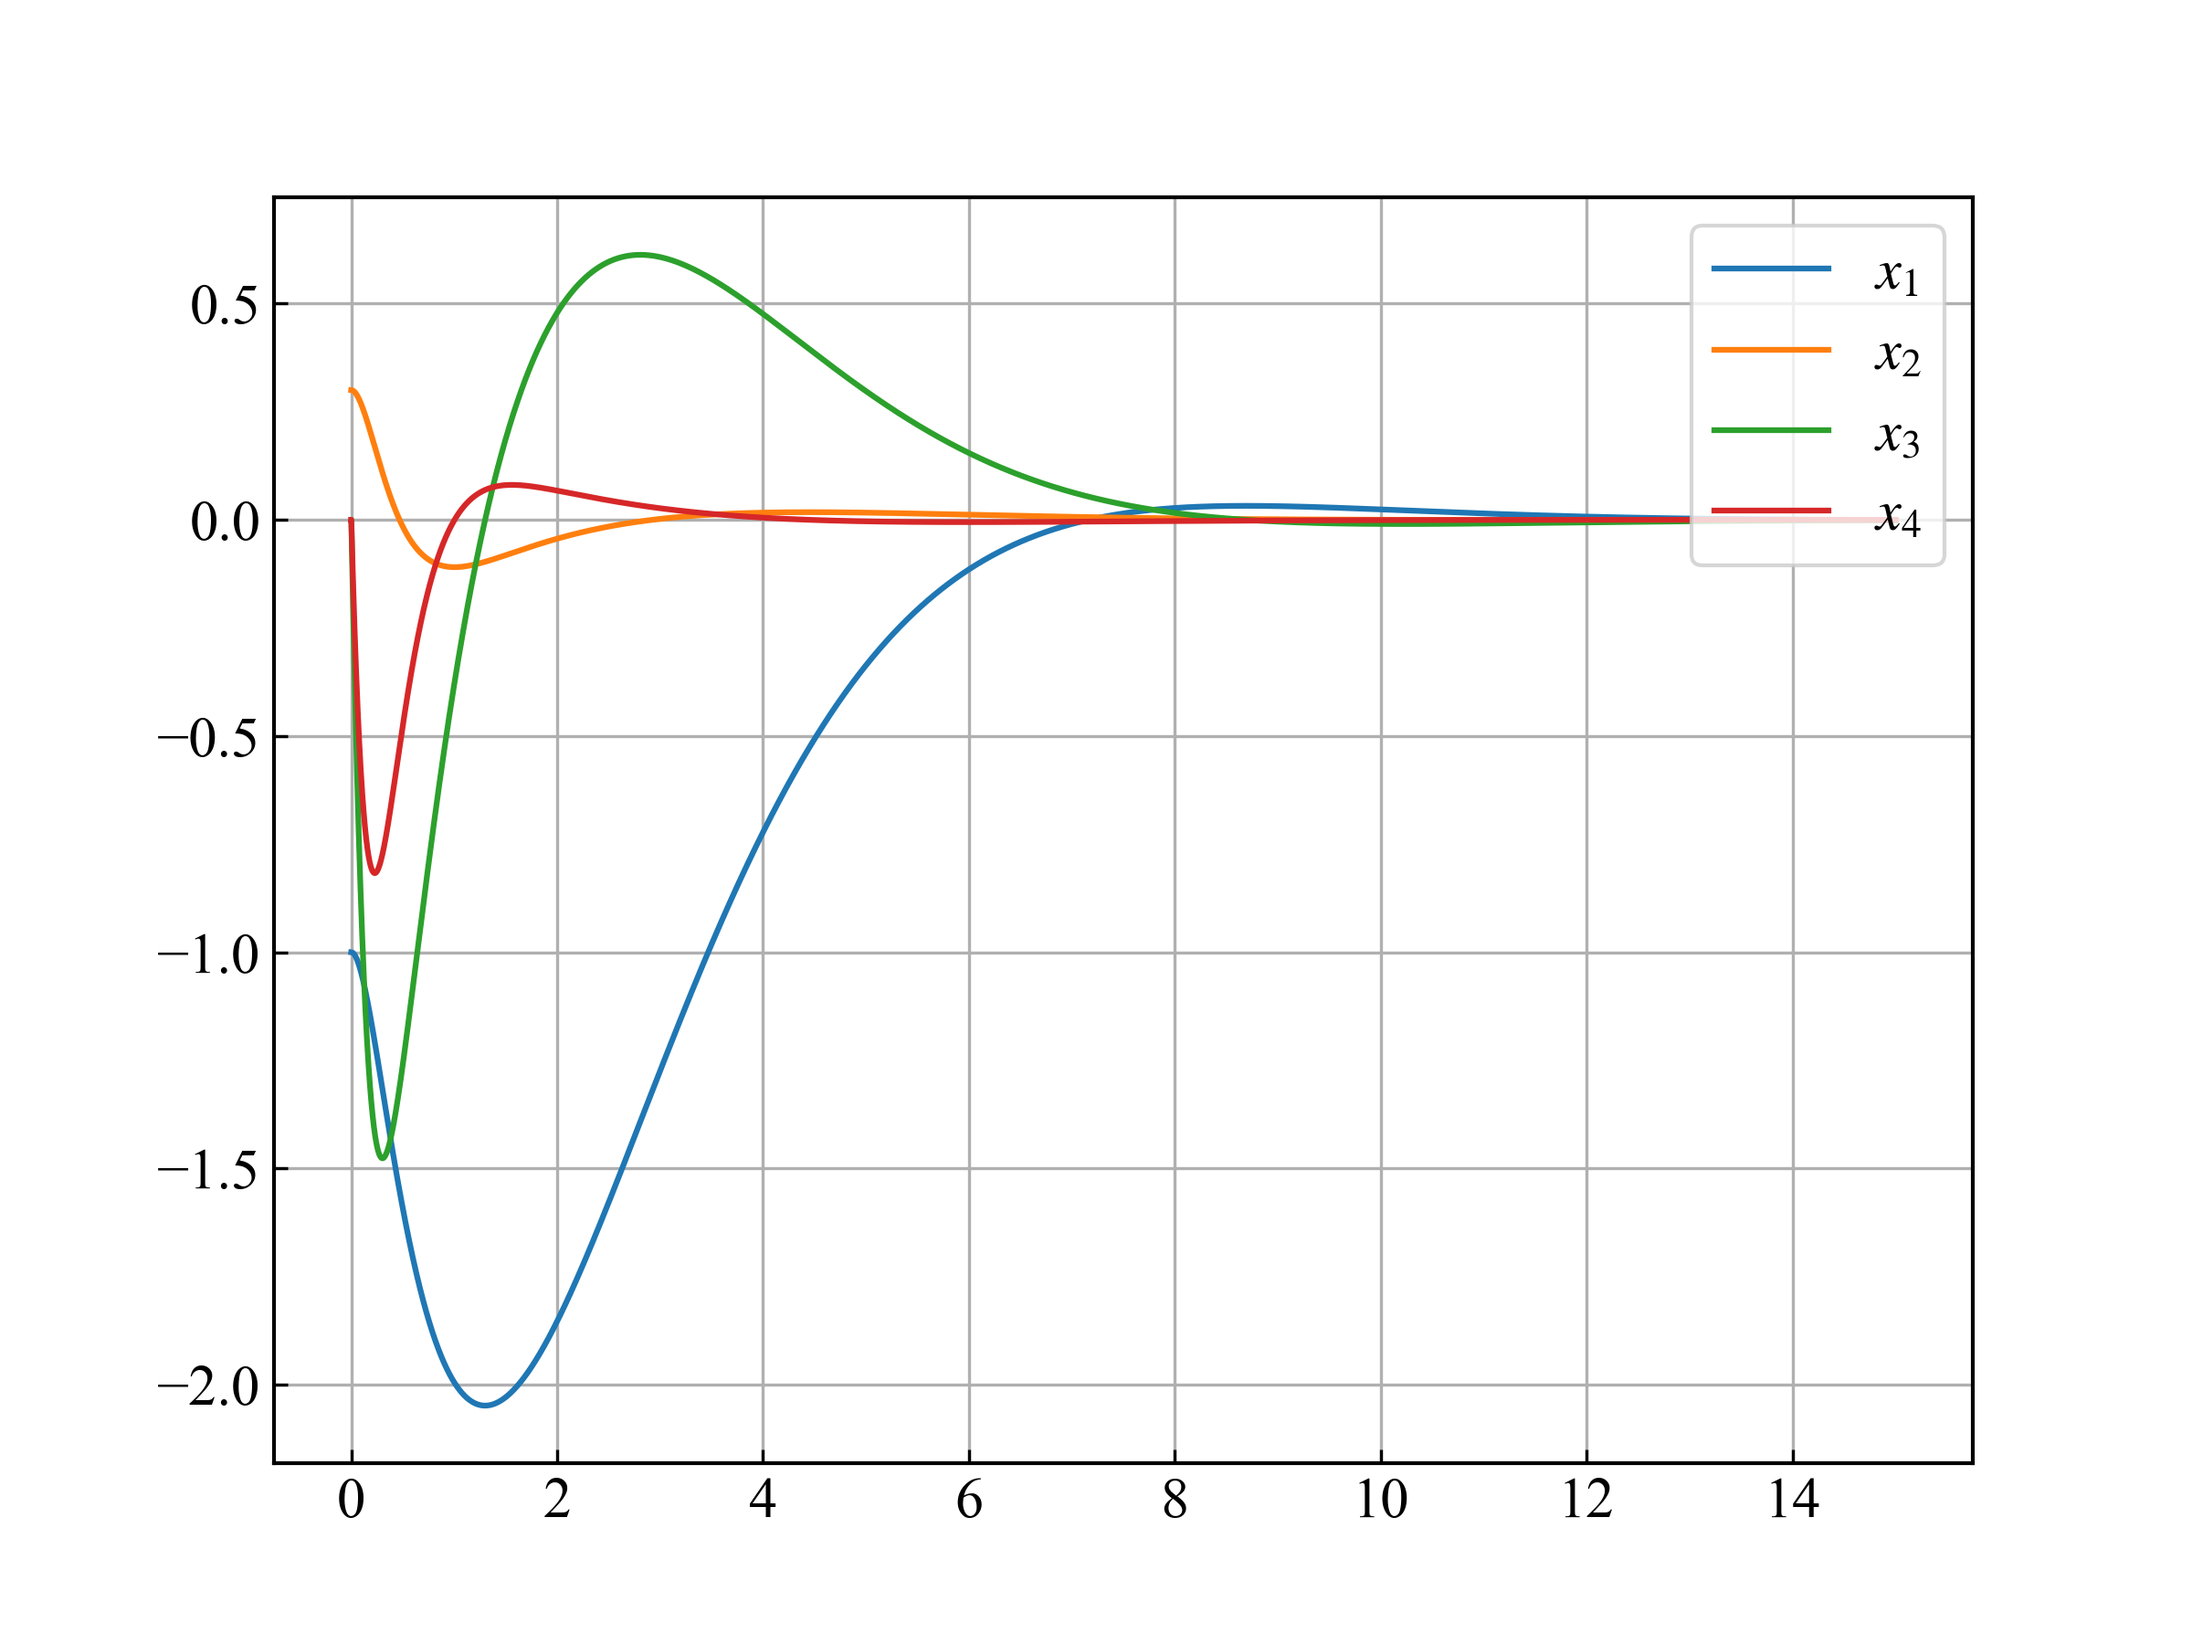
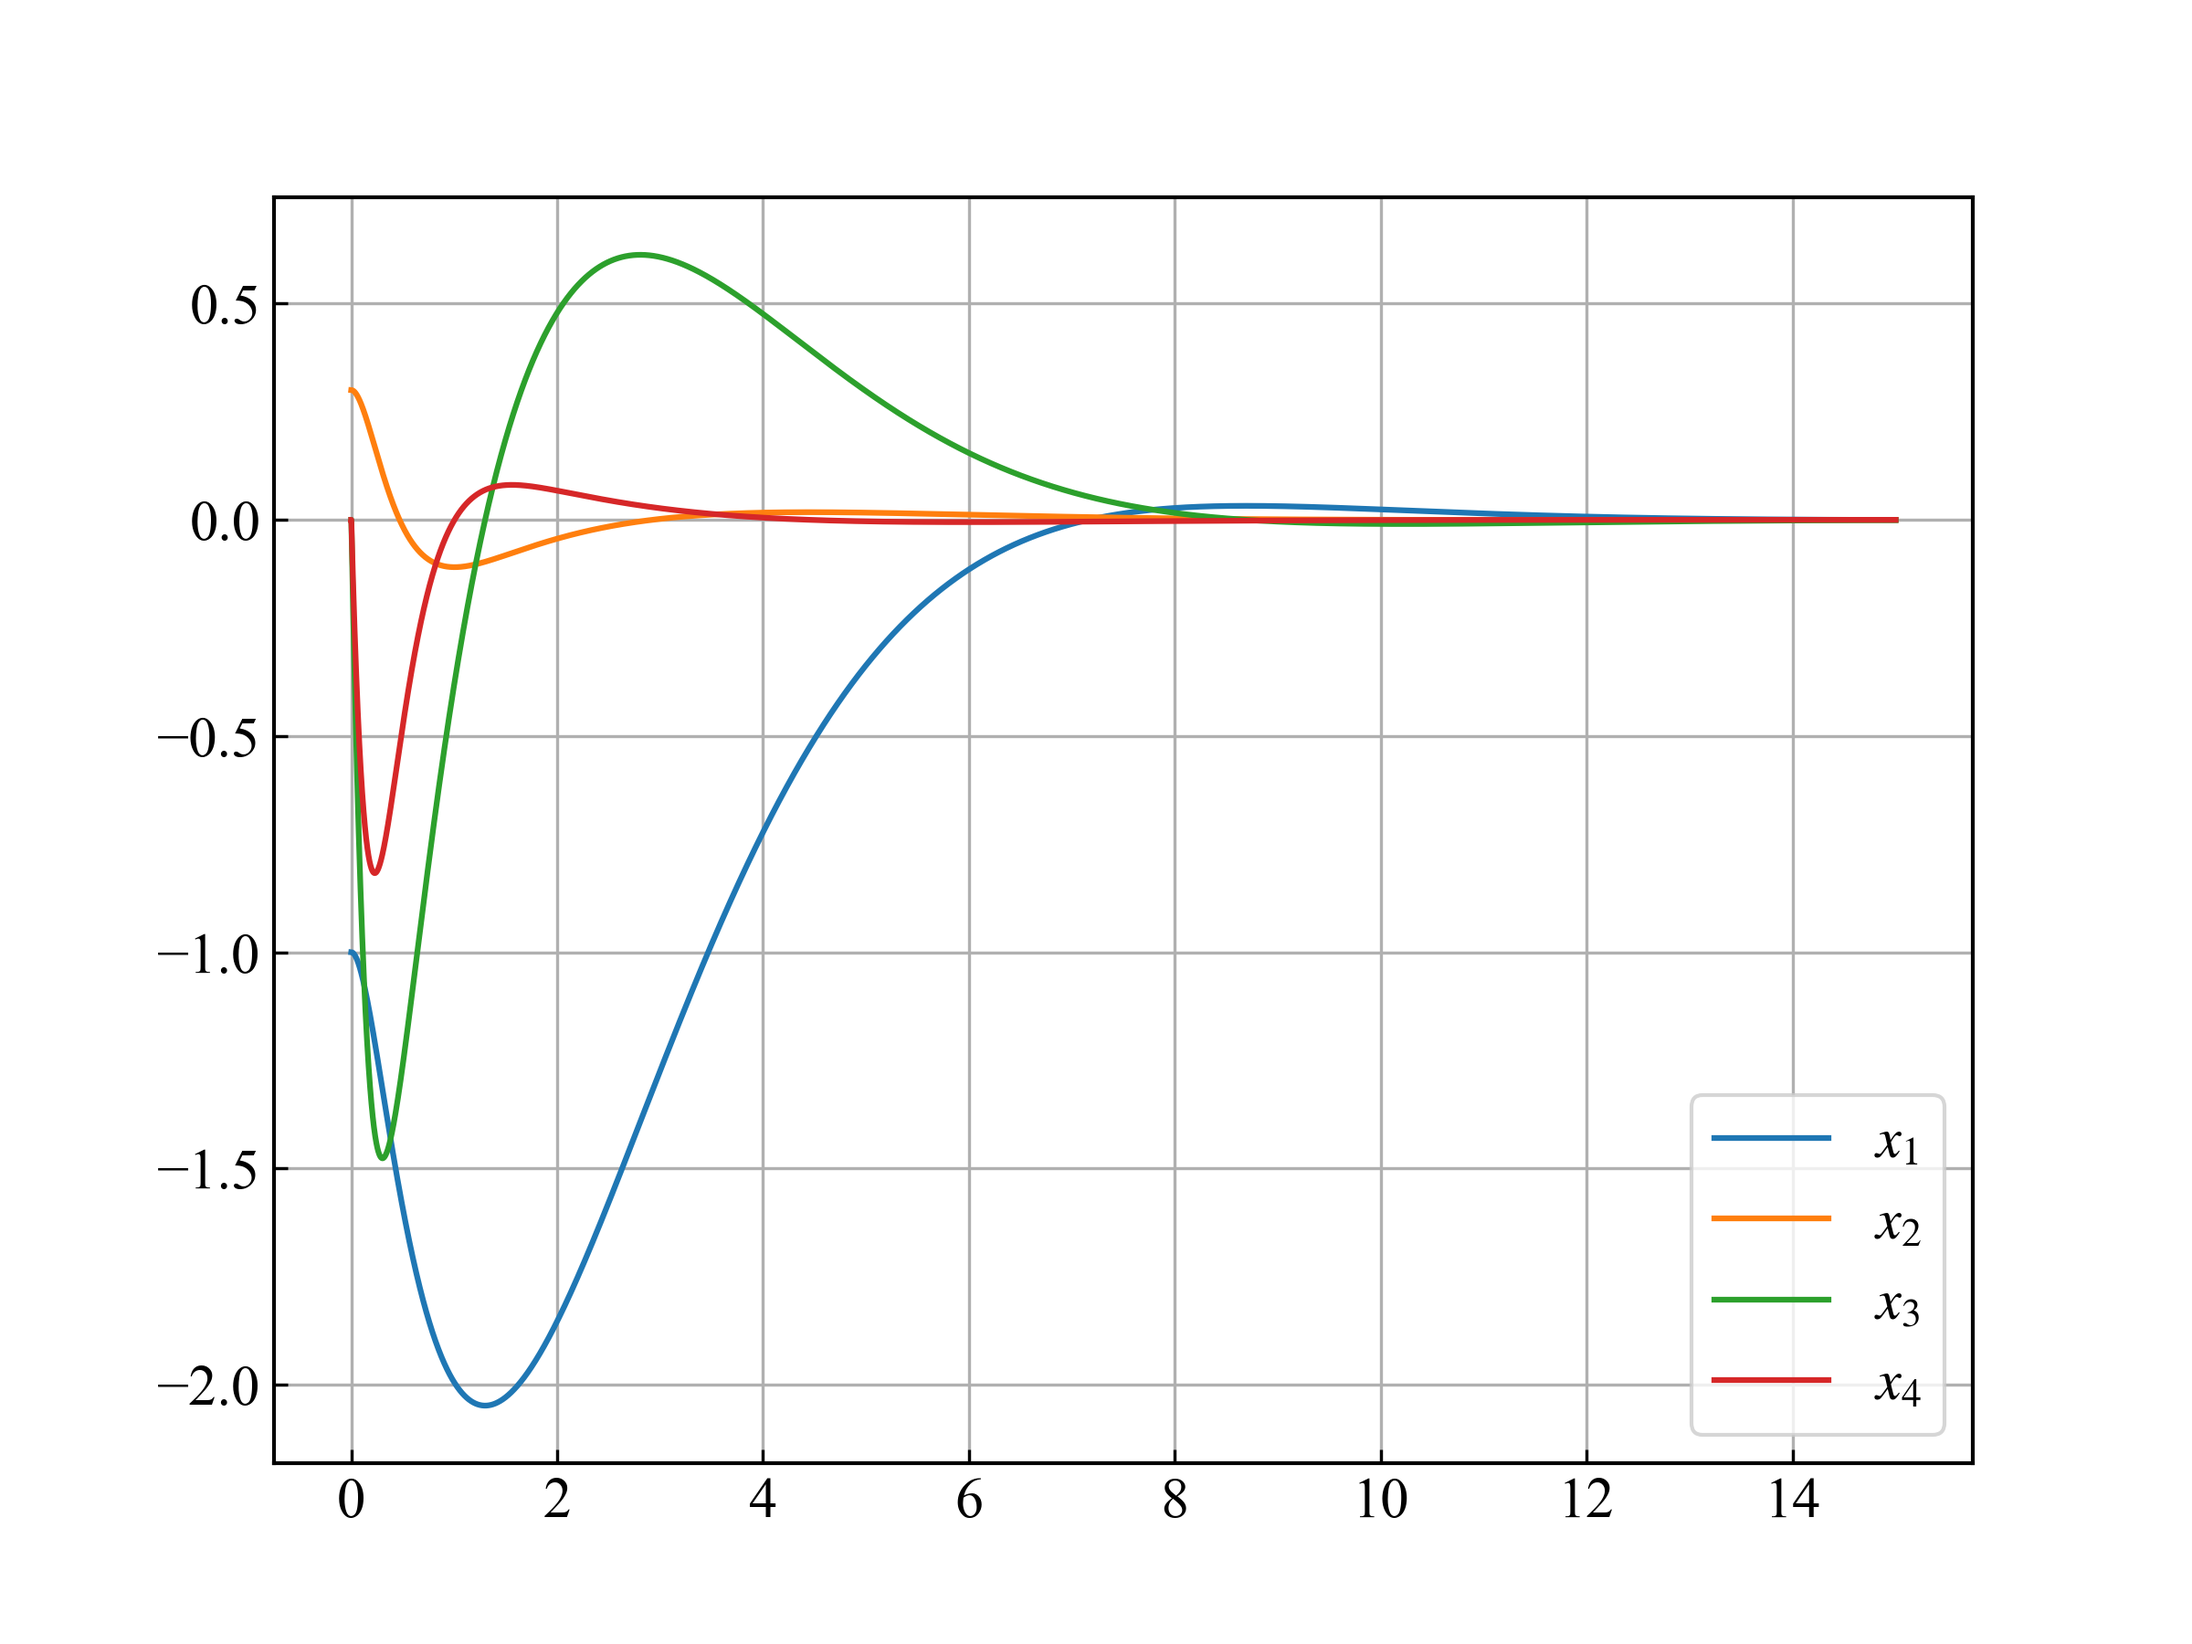
update hw7

diff --git a/hw7/ito/answer1.py b/hw7/ito/answer1.py
@@ -117,7 +117,7 @@ class Runner(object):
         fig, ax = plt.subplots(figsize=(8, 6))
         for idx in range(obss.shape[1]):
             ax.plot(ts, obss[:, idx], label="$" + f"x_{idx + 1}" + "$")
-        ax.legend(loc="upper right")
+        ax.legend(loc="lower right")
         savefile = "evaluate_result_obs.png"
         savepath = os.path.join(savedir, savefile)
         fig.savefig(savepath, dpi=300)
